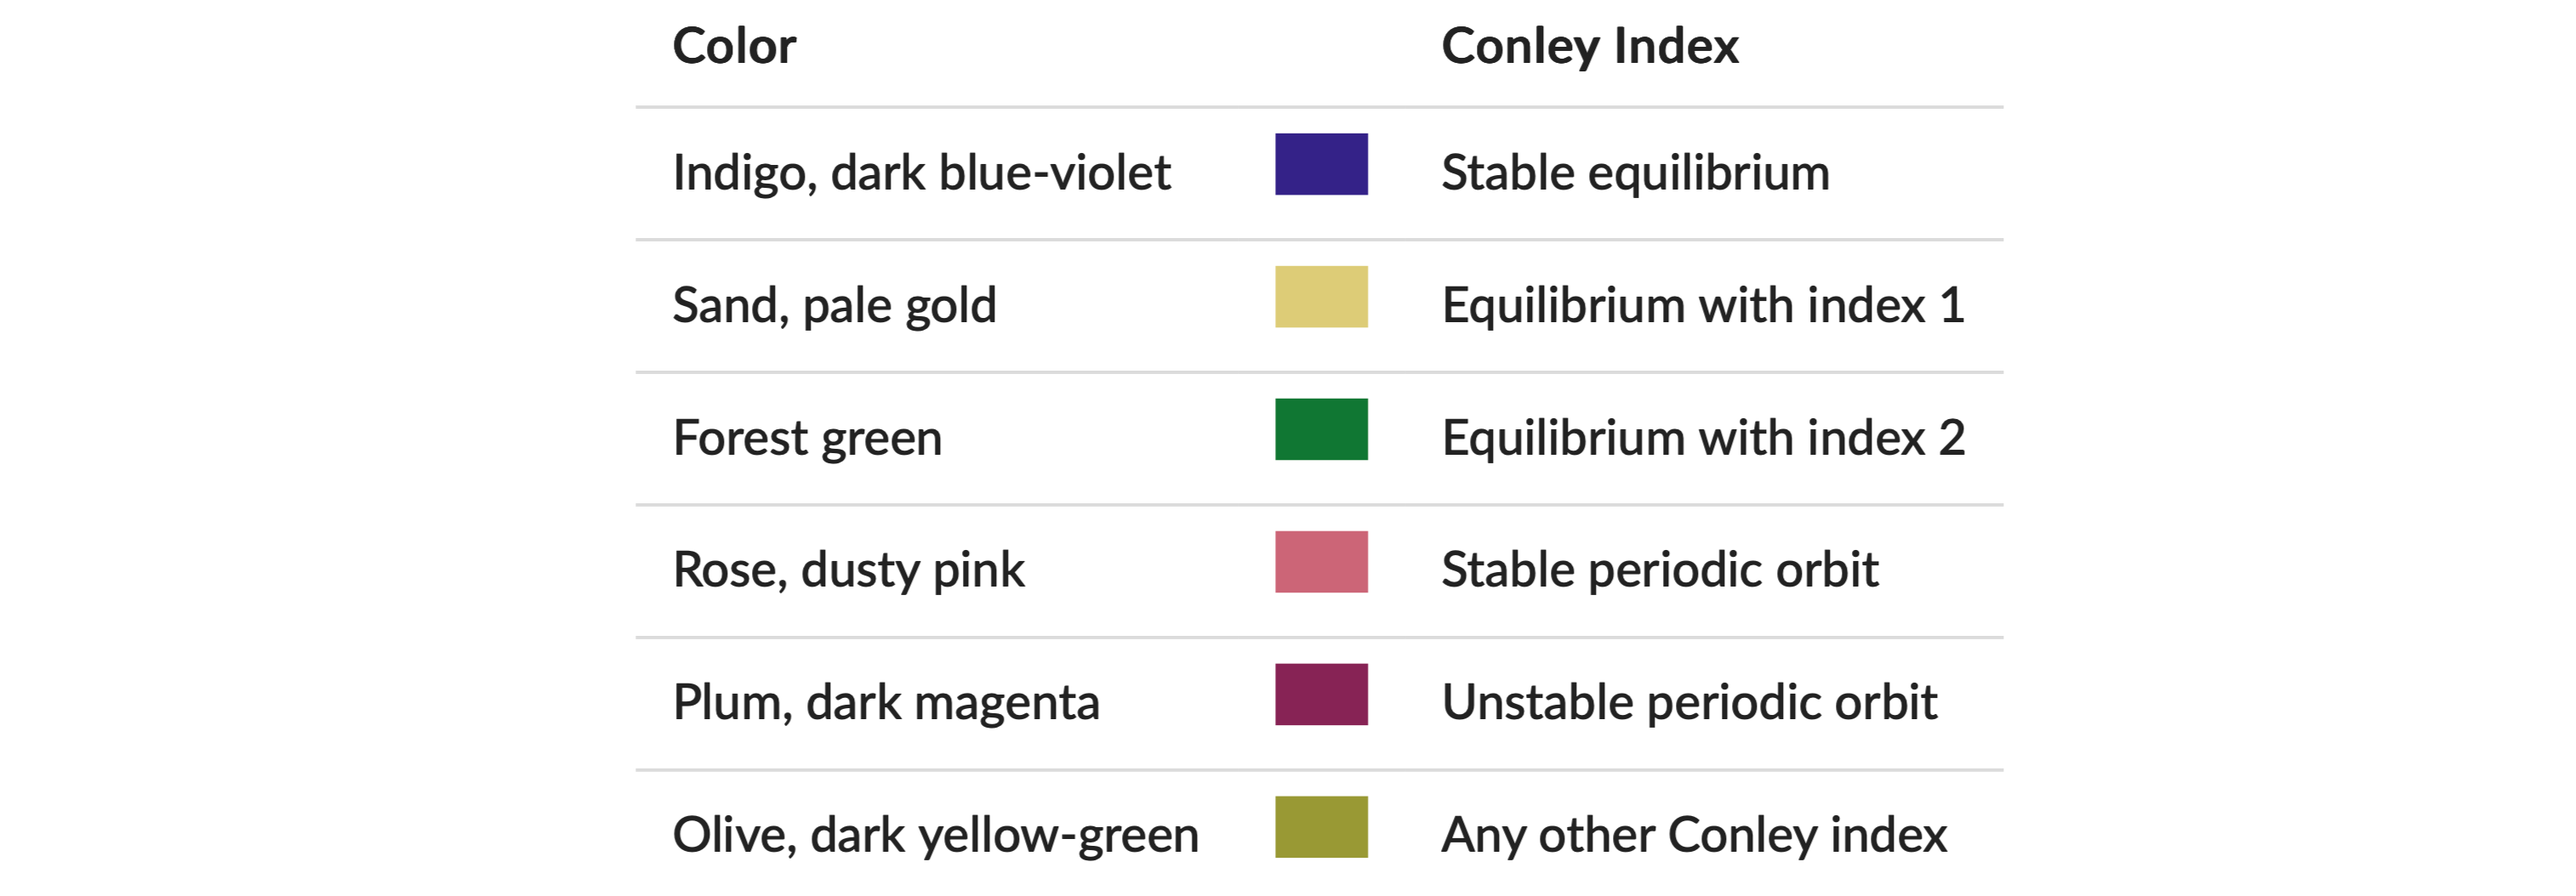
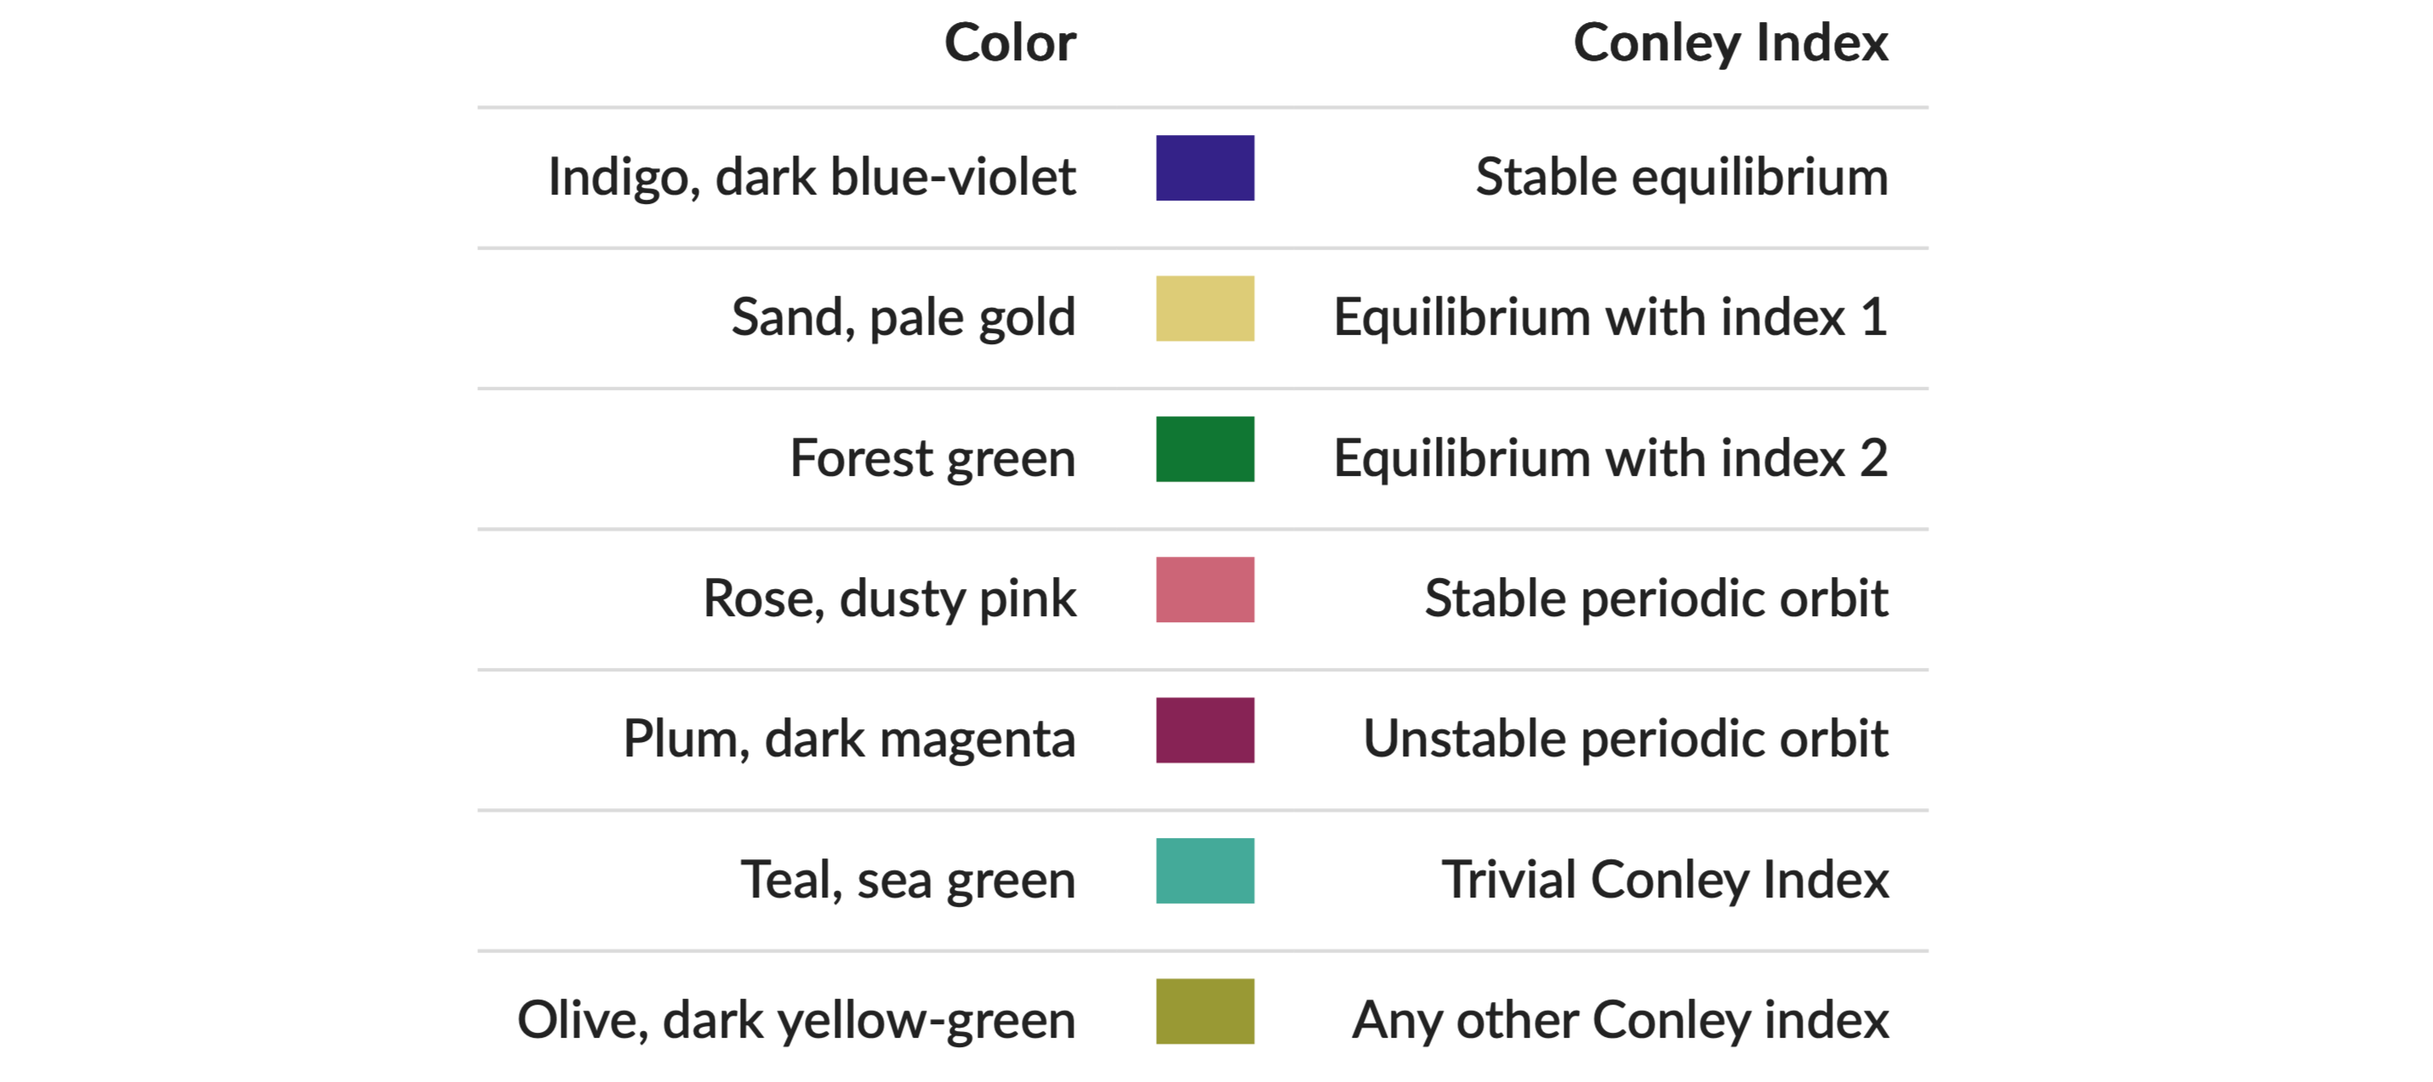
updated the manual

Changed region(s): [[0.2178, 0.0304, 0.778, 0.9715], [0.5601, 0.9108, 0.778, 0.9715], [0.3734, 0.0304, 0.4668, 0.0607]]

diff --git a/docs/src/man/plotting.md b/docs/src/man/plotting.md
@@ -400,13 +400,16 @@ mvf = [["01.00","01.01"], ["02.00","02.10"], ["12.00","11.01"],
        ["11.00","01.10"], ["00.00","00.01"], ["00.10","00.11"],
        ["10.00","10.01"], ["21.00","11.10"], ["32.00","31.01"],
        ["31.00","21.10"], ["20.11","20.01","30.01","20.10"]]
-c1 = plot_cubical_mvf(cc, mvf)
+cm  = connection_matrix(cc, mvf)
+
+c1 = plot_cubical_mvf(cc, mvf, ci=true,
+                      pdim=[false,true,true])
 display(c1)
 
-cm = connection_matrix(cc, mvf)
 c2 = plot_cubical_mvf(cc, cm.morse, addcritical=false,
-     mvfcolor=["orange","green","red","brown","mediumpurple"],
-     mvfalpha=0.7)
+                      ci=true, mvfalpha=0.7,
+                      pdim=[false,true,true])
+display(c2)
 
 pc12 = plot(c1, c2, layout=(1,2))
 plot!(pc12, dpi=300)

diff --git a/misc/changelog/changelog.md b/misc/changelog/changelog.md
@@ -13,6 +13,12 @@ description, etc.
 
 Release notes:
 
+## v0.7.9 (April 23, 2026)
+
+- Added `ci` coloring for trivial Conley index `[0,0,0]`.
+- Added `ci` flag to `plot_simplicial_mvf` and `plot_cubical_mvf`.
+- Minor tweaks to the manual.
+
 ## v0.7.8 (April 22, 2026)
 
 - Significant extensions to the visualization part of the manual.
